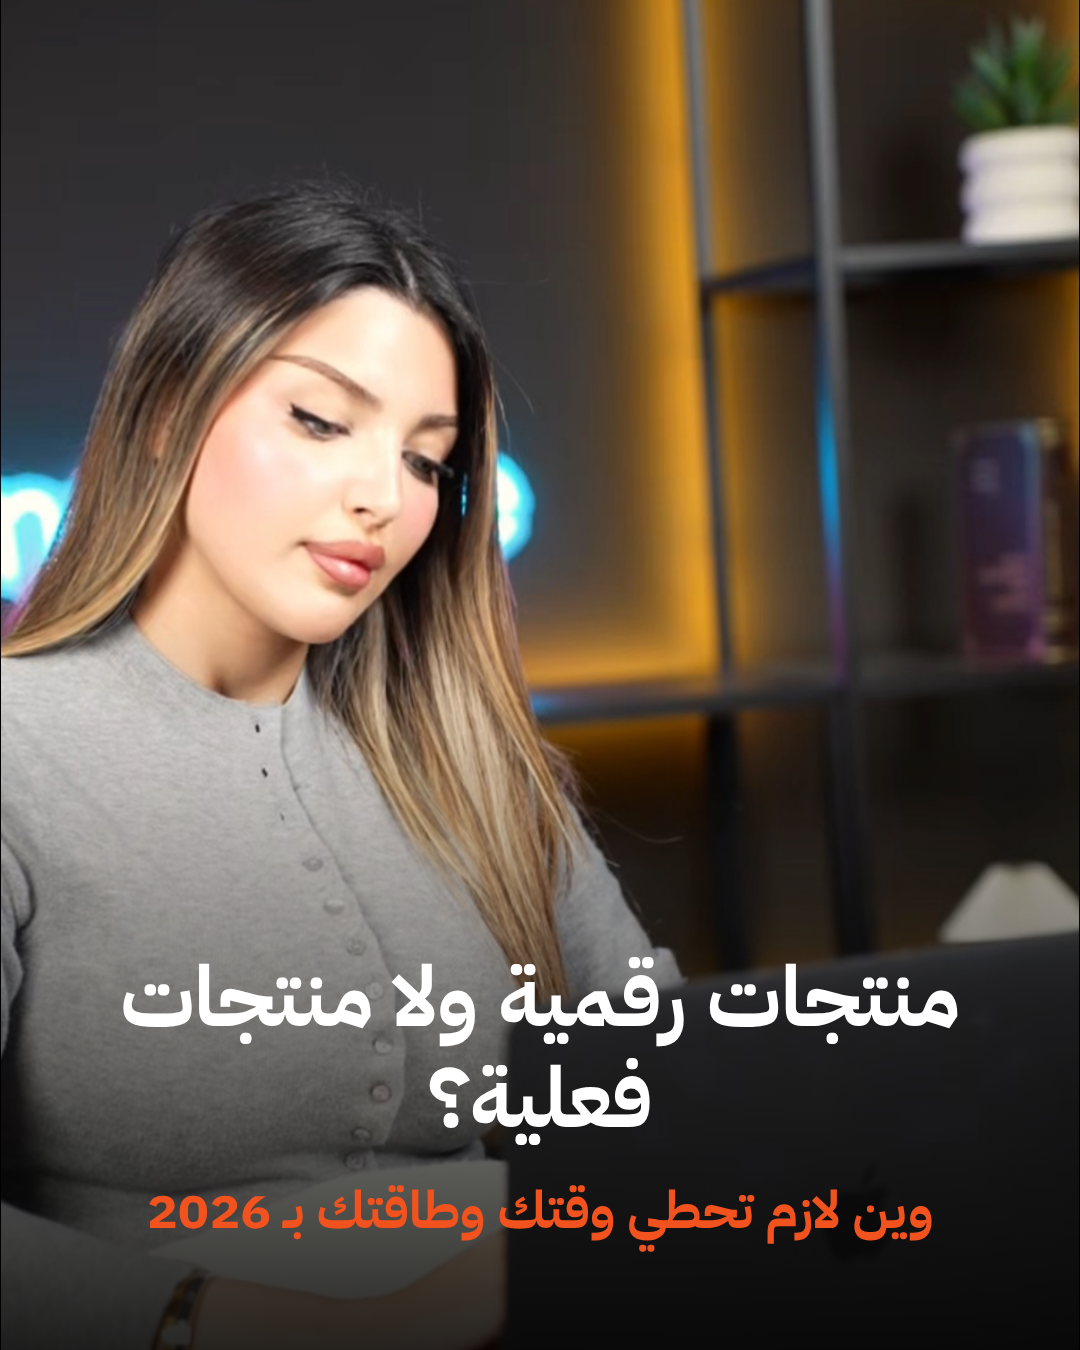
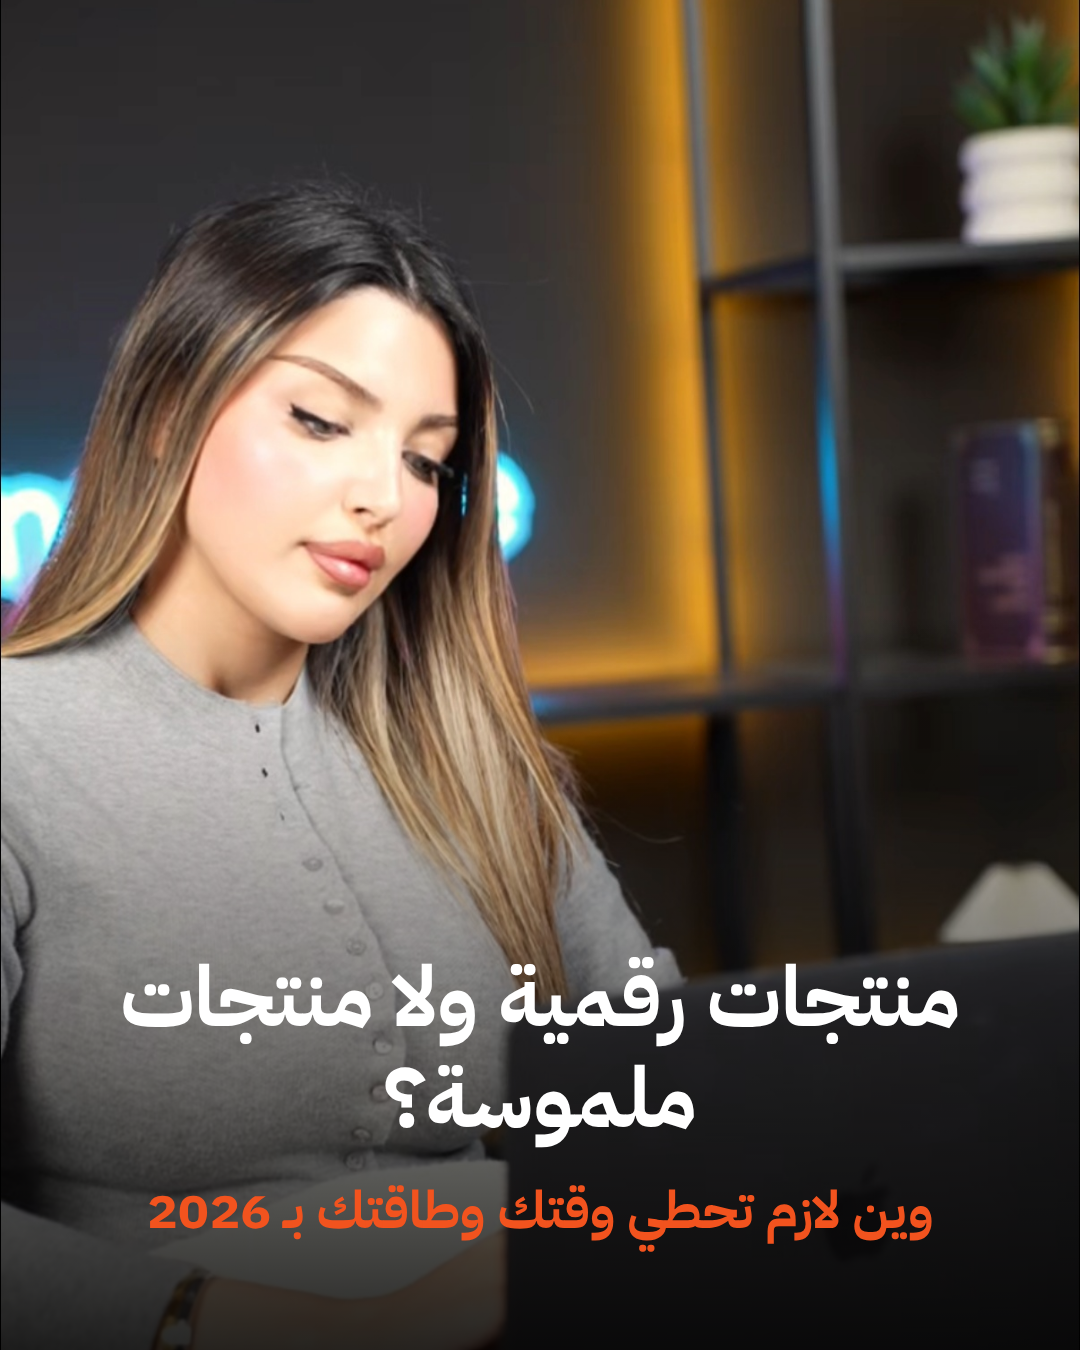
Carousel 22: say ملموسة instead of فعلية
Claude-Session: https://claude.ai/code/session_01Q3F4hydPDiJyjfKYRyCC3U

Changed region(s): [[0.3361, 0.7778, 0.6417, 0.8711]]

diff --git a/carousels/22-digital-vs-physical/carousel.html b/carousels/22-digital-vs-physical/carousel.html
@@ -37,11 +37,11 @@
 .foot img{width:104px;height:104px;border-radius:50%;border:3px solid #333}
 .foot div{display:flex;flex-direction:column;text-align:left}.foot b{font-weight:700;font-size:40px}.foot span{font-weight:500;font-size:30px;color:#bbb}
 .swipe{position:absolute;right:70px;bottom:80px;width:110px}</style></head><body><section class="slide cover"><img class="bg" src="cover.jpg"><div class="shade"></div>
-<h1>منتجات رقمية ولا منتجات فعلية؟</h1><div class="sub">وين لازم تحطي وقتك وطاقتك بـ <bdi dir="ltr">2026</bdi></div></section><section class="slide txt"><div class="box"><img class="vis" src="v2.jpg">
+<h1>منتجات رقمية ولا منتجات ملموسة؟</h1><div class="sub">وين لازم تحطي وقتك وطاقتك بـ <bdi dir="ltr">2026</bdi></div></section><section class="slide txt"><div class="box"><img class="vis" src="v2.jpg">
 <p class="big">شو الفرق؟</p>
-<p><b>المنتج الفعلي</b> شي بينلمس: ملابس مكياج شموع اكسسوارات</p>
+<p><b>المنتج الملموس</b> شي بينلمس: ملابس مكياج شموع اكسسوارات</p>
 <p><b class="o">المنتج الرقمي</b> شي بيتحمل او بينحضر اونلاين: كورس كتاب الكتروني تمبلت ورشة برنامج كوتشينغ</p></div><div class="foot"><img src="avatar.png"><div><b>Itscoachhiba</b><span>@itscoachhiba</span></div></div><svg class="swipe" viewBox="0 0 120 60"><path d="M100 30 H18 M40 10 L18 30 L40 50" fill="none" stroke="#fff" stroke-width="7" stroke-linecap="round" stroke-linejoin="round"/></svg></section><section class="slide txt"><div class="box"><img class="vis" src="v3.jpg">
-<p class="big">المنتج الفعلي بيحتاج:</p>
+<p class="big">المنتج الملموس بيحتاج:</p>
 <ul class="x"><li><span>راس مال من البداية</span></li><li><span>مخزون وتخزين</span></li><li><span>شحن وتغليف ومرتجعات</span></li><li><span>ربح اقل بكل قطعة بعد التكاليف</span></li></ul>
 <p>وكل ما بدك تبيعي اكتر لازم تصنعي او تشتري اكتر</p></div><div class="foot"><img src="avatar.png"><div><b>Itscoachhiba</b><span>@itscoachhiba</span></div></div><svg class="swipe" viewBox="0 0 120 60"><path d="M100 30 H18 M40 10 L18 30 L40 50" fill="none" stroke="#fff" stroke-width="7" stroke-linecap="round" stroke-linejoin="round"/></svg></section><section class="slide txt"><div class="box"><img class="vis" src="v4.jpg">
 <p class="big">المنتج الرقمي:</p>

diff --git a/carousels/22-digital-vs-physical/build.py b/carousels/22-digital-vs-physical/build.py
@@ -18,11 +18,11 @@ slides = [
     # 2 difference
     f'''<img class="vis" src="v2.jpg">
 <p class="big">شو الفرق؟</p>
-<p><b>المنتج الفعلي</b> شي بينلمس: ملابس مكياج شموع اكسسوارات</p>
+<p><b>المنتج الملموس</b> شي بينلمس: ملابس مكياج شموع اكسسوارات</p>
 <p><b class="o">المنتج الرقمي</b> شي بيتحمل او بينحضر اونلاين: كورس كتاب الكتروني تمبلت ورشة برنامج كوتشينغ</p>''',
     # 3 physical
     f'''<img class="vis" src="v3.jpg">
-<p class="big">المنتج الفعلي بيحتاج:</p>
+<p class="big">المنتج الملموس بيحتاج:</p>
 {ul(["راس مال من البداية", "مخزون وتخزين", "شحن وتغليف ومرتجعات", "ربح اقل بكل قطعة بعد التكاليف"], "x")}
 <p>وكل ما بدك تبيعي اكتر لازم تصنعي او تشتري اكتر</p>''',
     # 4 digital
@@ -82,7 +82,7 @@ slides = [
 slides = [clean(s) for s in slides]
 
 html = [f'''<section class="slide cover"><img class="bg" src="cover.jpg"><div class="shade"></div>
-<h1>منتجات رقمية ولا منتجات فعلية؟</h1><div class="sub">وين لازم تحطي وقتك وطاقتك بـ {D('2026')}</div></section>''']
+<h1>منتجات رقمية ولا منتجات ملموسة؟</h1><div class="sub">وين لازم تحطي وقتك وطاقتك بـ {D('2026')}</div></section>''']
 for k, s in enumerate(slides):
     html.append(f'<section class="slide txt"><div class="box">{s}</div>{FOOT}{ARROW if k < len(slides)-1 else ""}</section>')
 
